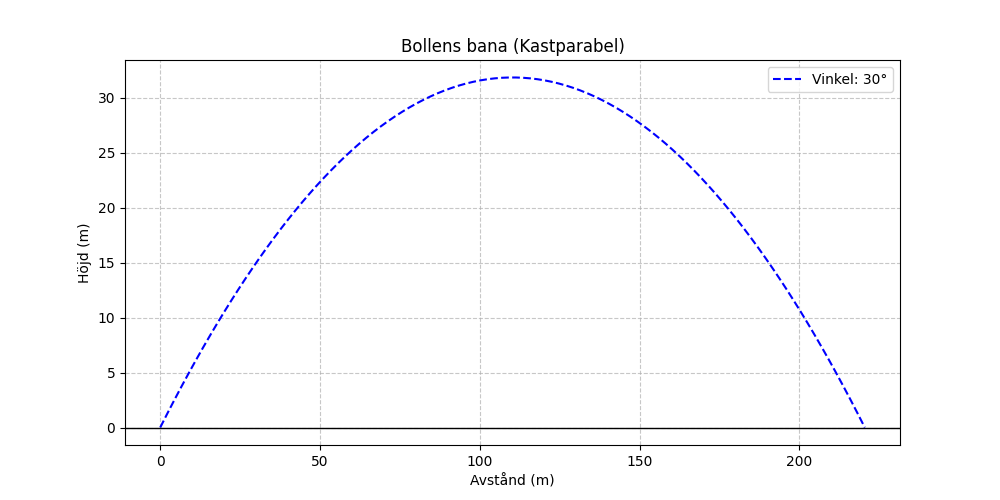
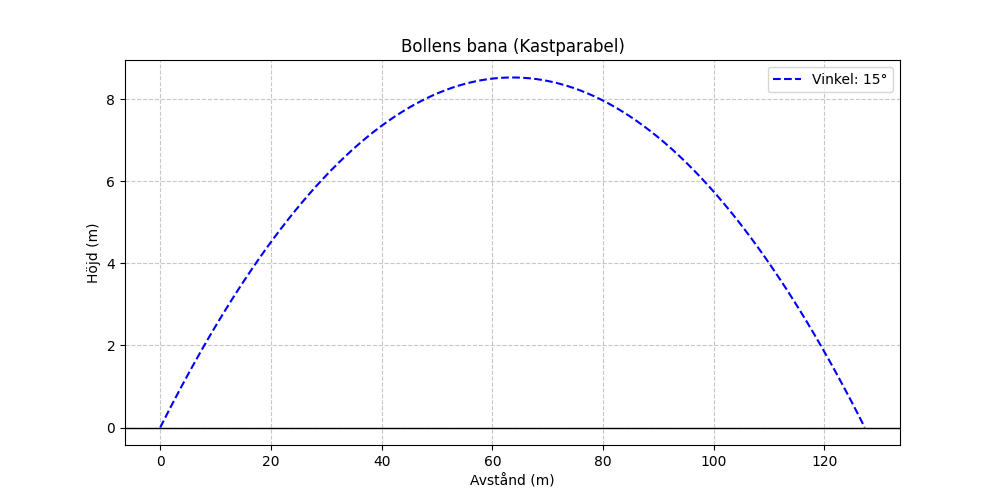
Fixad steg1

diff --git a/steg1.py b/steg1.py
@@ -6,7 +6,7 @@ xpos = 0
 ypos = 0
 
 initialvelocity = 50
-angle = 30
+angle = 15
 
 xspeed = 0
 yspeed = 0
